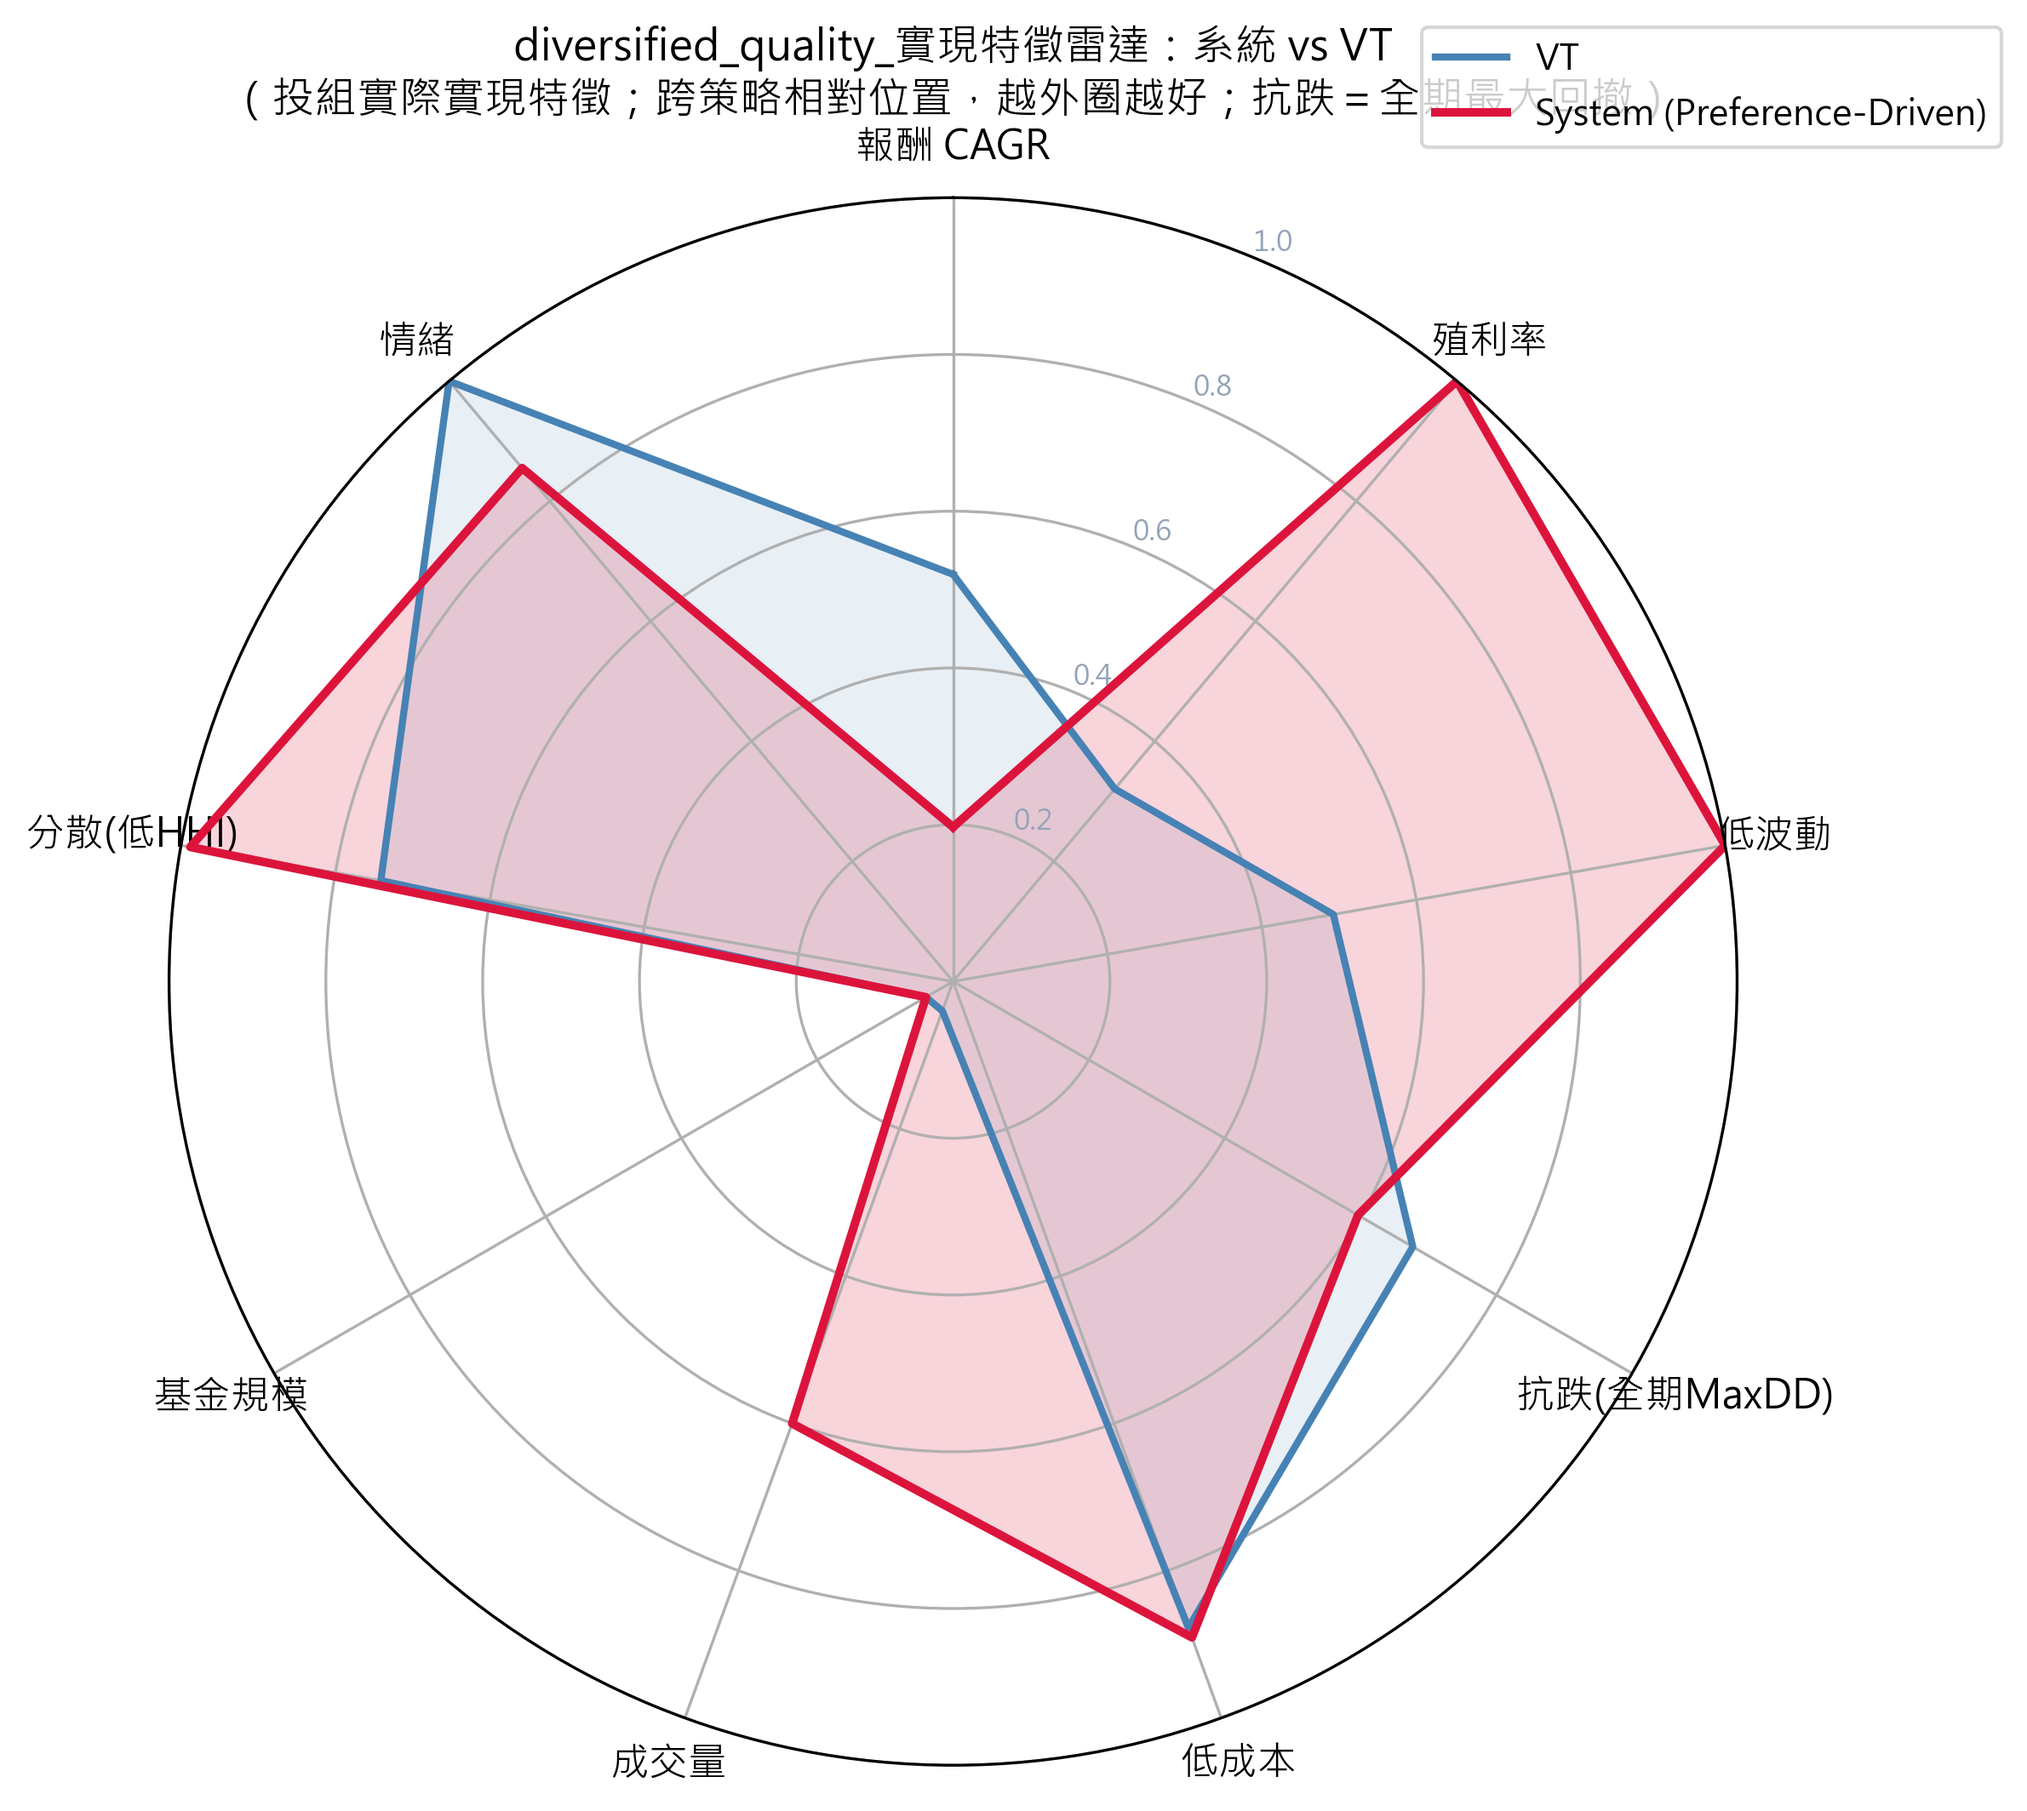
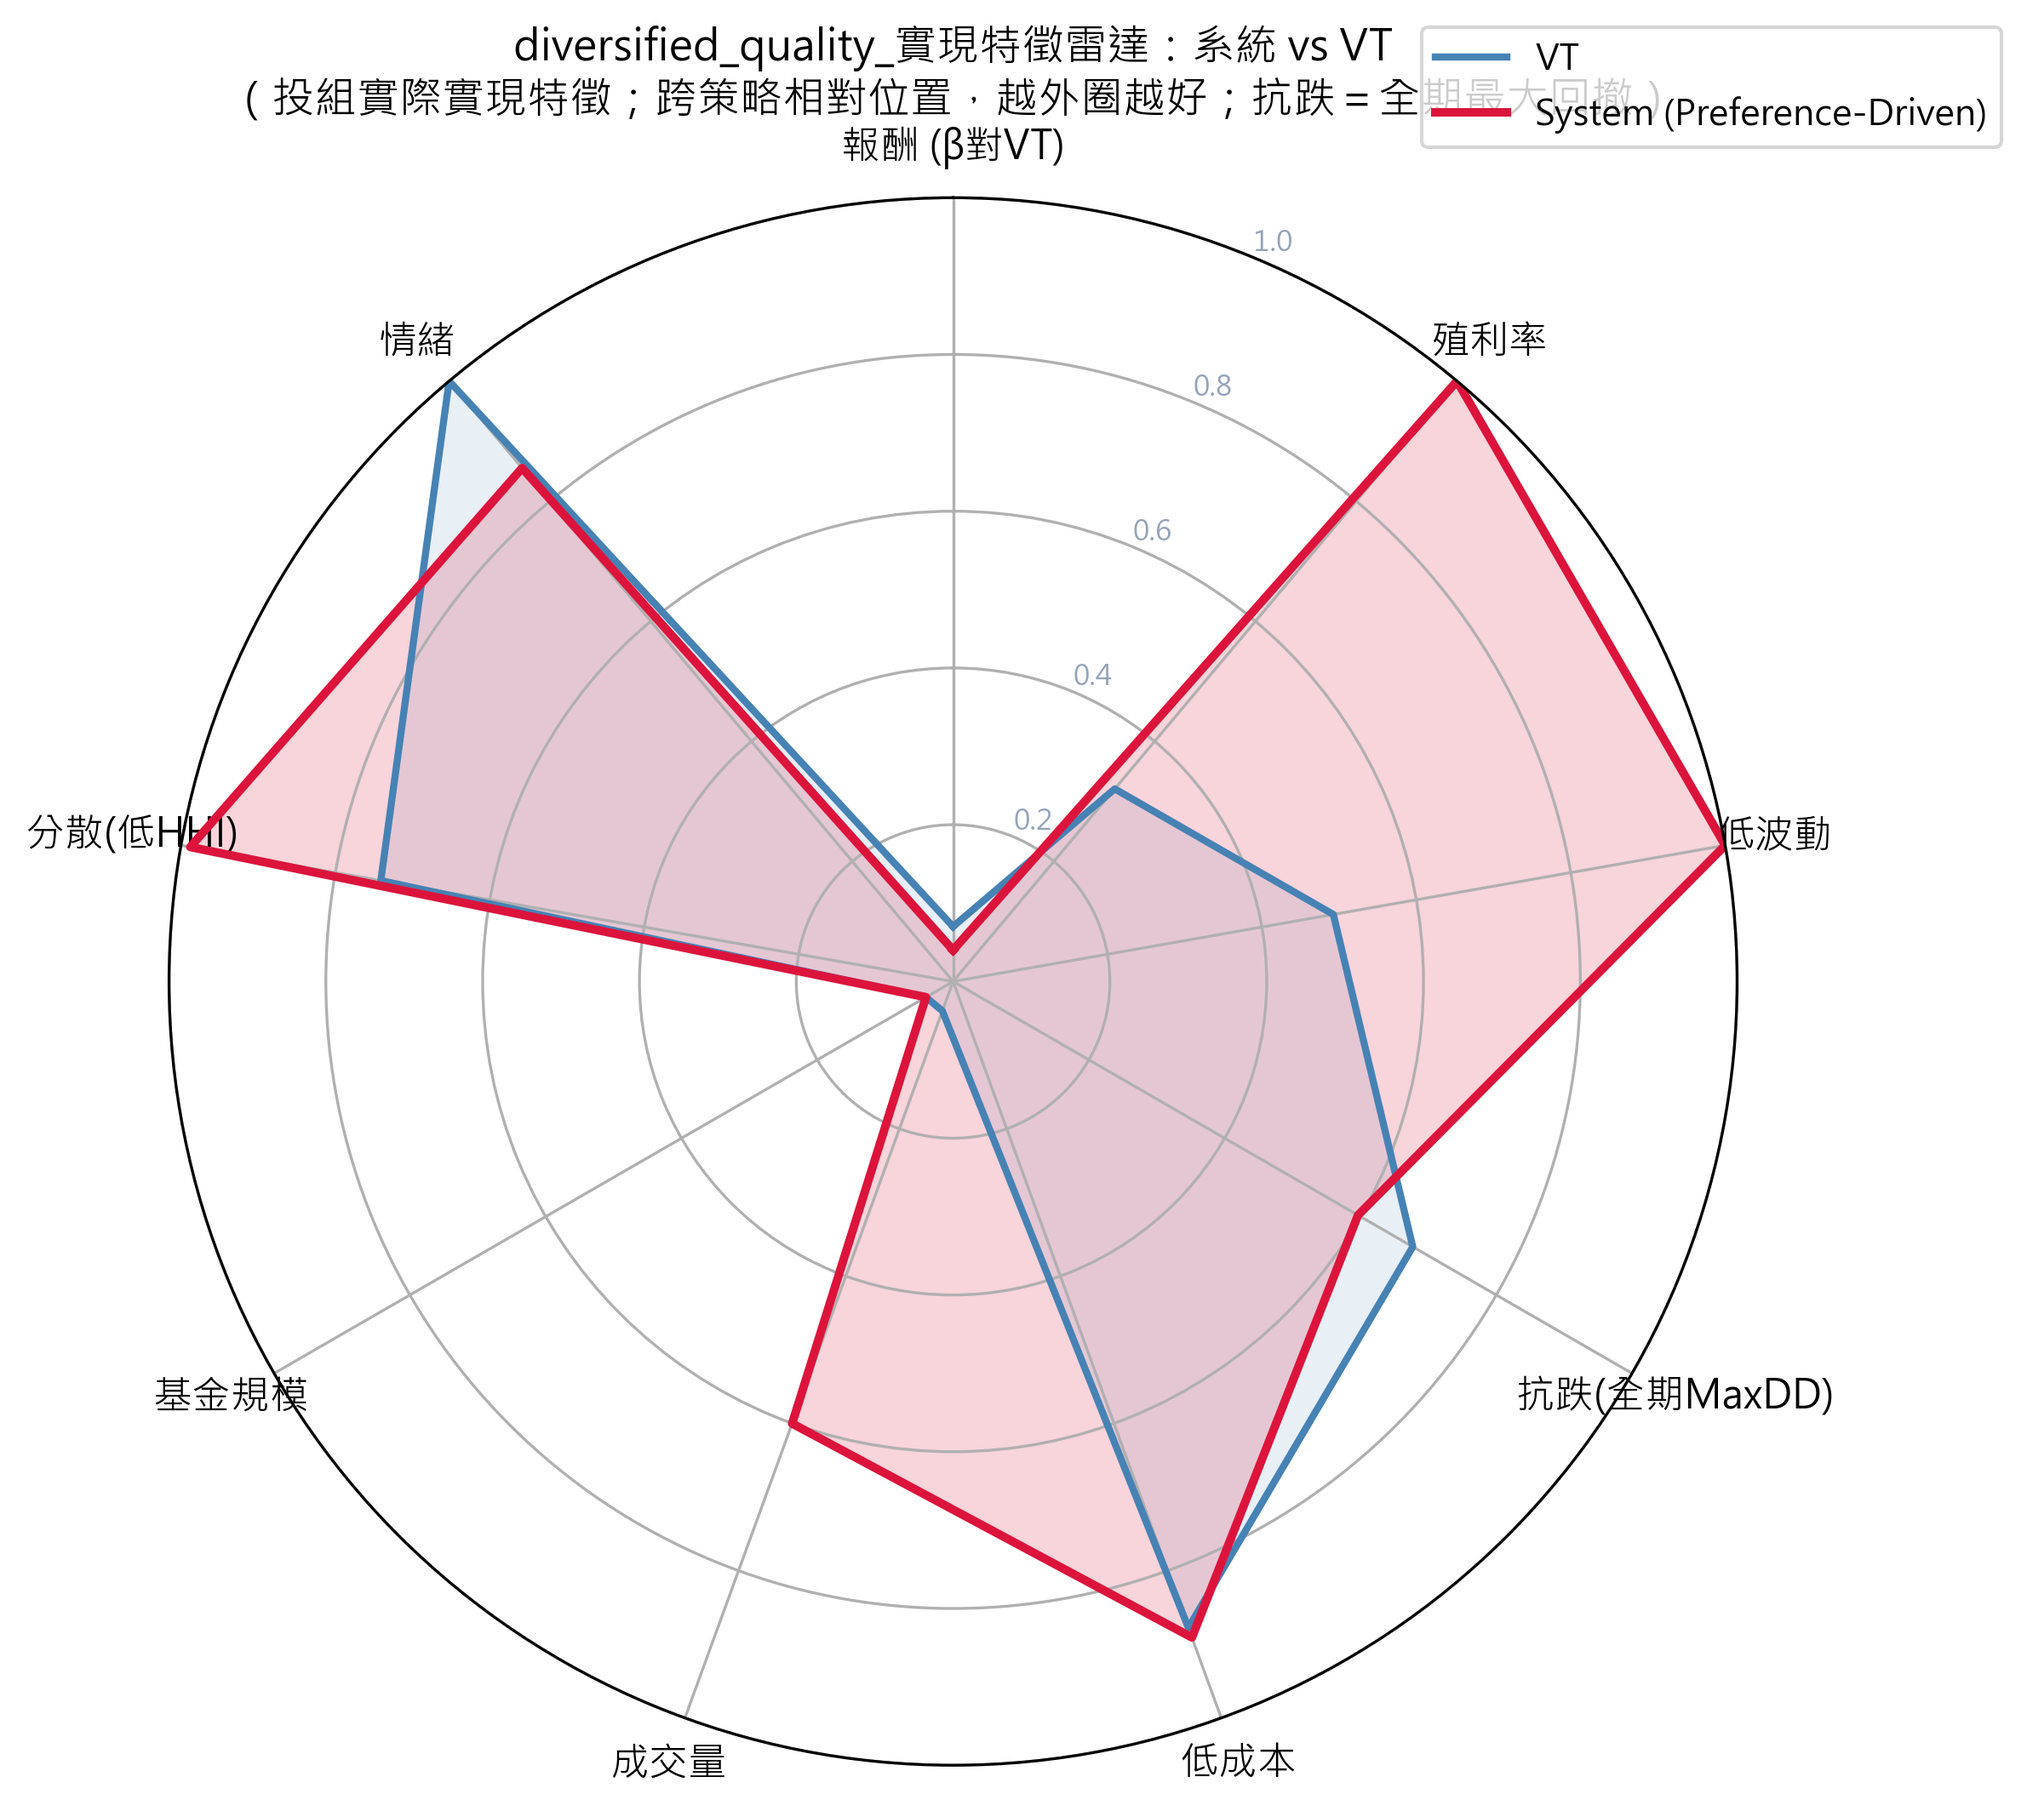
Radar return axis -> beta; disable early-stop (always ask all 9 questions)
- Backtest realized radar's return axis now uses Avg_Score_Return_CAGR (the
  beta-vs-VT return sub-score), consistent with the system's beta-based return
  scoring; label '報酬 (β對VT)'. Regenerated 7 showcase radars.
- etf_web: removed the pre-9 T1 early-stop offer in _compute_next and the
  '結束問答' button in the question card, so the interview always covers all 9
  dimensions (avoids unanswered dims sitting at prior / untrustworthy CI). The
  post-9 T2 reask offer is kept.

diff --git a/etf_web/static/app.js b/etf_web/static/app.js
@@ -86,10 +86,9 @@ function renderAction(action) {
       <textarea id="ans" placeholder="請用自然語句具體回答…"></textarea>
       <div class="row">
         <button class="btn" id="send">送出</button>
-        <button class="btn-ghost" id="stop">結束問答</button>
+        <span class="hint" style="margin:0">為求結果完整可信，將完整詢問 9 個面向。</span>
       </div>`;
     $("send").onclick = submitAnswer;
-    $("stop").onclick = () => choose(lastSnap && lastSnap.phase==="reask" ? "T2":"T1", "stop");
     $("ans").focus();
     $("ans").addEventListener("keydown", e => { if (e.key==="Enter" && (e.metaKey||e.ctrlKey)) submitAnswer(); });
   } else if (action.type === "offer") {

diff --git a/etf_web/app.py b/etf_web/app.py
@@ -107,12 +107,8 @@ def _finish(snap, reason):
 def _compute_next():
     e = _S["engine"]
     snap = e.snapshot()
-    if e.phase == "coverage" and e.should_stop() and not _S["continue_full"]:
-        return {"type": "offer", "kind": "T1", "snapshot": snap,
-                "title": "已找到您最重視的面向",
-                "message": f"系統已能排出您最重視的面向（已問 {snap['n_asked']} 題）。"
-                           f"可以就此結束；或繼續問完整 9 個面向以取得完整、可信賴的結果。",
-                "continue_label": "繼續問完整 9 面向", "stop_label": "結束（看排序）"}
+    # ★早停已停用★：使用者要求「答完 9 題前不可結束」（未答完會壓低未問維度、CI 不可信），
+    # 故略過覆蓋階段的 T1 早停提議，引擎一律問到 9 維全覆蓋為止。
     if e.all_covered() and e.t3_pending() and not _S["continue_reask"]:
         names = "、".join(SHORT.get(x, x) for x in snap["pending_conflicts"])
         return {"type": "offer", "kind": "T2", "snapshot": snap,

diff --git a/backtest_engine.py b/backtest_engine.py
@@ -2147,7 +2147,7 @@ def _plot_backtest_preference_radar(
         return
     # (顯示標籤, 欄位, 方向 +1=越大越好/-1=越小越好)
     specs_all = [
-        ("報酬 CAGR", "CAGR_%", +1),
+        ("報酬 (β對VT)", "Avg_Score_Return_CAGR", +1),   # 與偏好評分一致：報酬維度用 beta（系統性風險曝險），非過去 CAGR
         ("殖利率", "Avg_Raw_Dividend_Yield_%", +1),
         ("低波動", "Annualized_Volatility_%", -1),
         ("抗跌(全期MaxDD)", "Max_Drawdown_%", +1),       # 負值，越接近 0（越大）越好

diff --git a/system_upgrade_records/02_algorithm_upgrade_change_log.md b/system_upgrade_records/02_algorithm_upgrade_change_log.md
@@ -1110,6 +1110,12 @@ VT 參考 CAGR 13.51%。問題：傾斜目標 s 含資本利得排名(Norm_Retur
 - **Q1：低成本勝率時而高、本次卻 0%** —— 根因是 g(w) 的**傾斜強度 τ = 0.30·(1−T_growth)·R**，其中 **R = 報酬兩維權重(CAGR+股息)**。本次使用者把報酬權重幾乎設 0 → R=0.015 → **τ=0.004（傾斜≈關閉）** → 系統幾乎只做純 minvar（挑低波動 ETF：USMV/HDV/XLP…），**沒有往「低成本」傾斜** → 費用率輸 VT。對照 `cost_liquidity` 原型 R=0.28 → τ=0.044（10×）→ 強力往成本/流動性傾斜 → 贏。**＝設計特性（非 bug）**：報酬無感的使用者，其「成本/分散/流動性」偏好幾乎不被傾斜表達。若要改善需動 g(w)（讓 τ 也吃非報酬偏好質量），屬最佳化器改動、需另行 A/B + 批准，本次**未動**、僅記錄。
 - **Q2：MaxDD 變了、VT 也變** —— VT MaxDD 非固定常數，是「**本次回測視窗**」內量的。兩次再平衡頻率不同（income 季度起點 2019-07-01；本次年度起點 2019-12-31）→ 視窗/再平衡格點不同 → VT 回撤 −33.72% vs −34.00%、系統投組與視窗亦不同。各自正確。
 
+## 2026-06-06：回測雷達報酬軸改 beta + 網頁停用「早停」（答完 9 題前不可結束）
+
+- **#1 雷達報酬軸用 beta**：`_plot_backtest_preference_radar` 的「報酬」軸由 `CAGR_%` 改為 `Avg_Score_Return_CAGR`（即偏好評分用的 beta 對 VT 報酬子分數），與系統「報酬維度＝系統性風險曝險(β)」一致。標籤改「報酬 (β對VT)」。7 張 showcase 重生。
+- **#2 停用早停**：使用者反映未答完 9 題會壓低未問維度（CI 不可信）。`etf_web/app.py._compute_next` 移除覆蓋階段的 T1 早停提議；`app.js` 移除問題卡的「結束問答」鈕、改提示「將完整詢問 9 個面向」。引擎一律問到 9 維全覆蓋；T2（9 題後的最後重問確認）保留（屬答完 9 題後，非早停）。
+- **#3 τ 公式為何含報酬係數 R（回答使用者，未改碼）**：見下方說明；R 把「願意偏離風險核心的程度」綁在報酬胃納上，對「重成本/分散但不在意報酬」的使用者會使 τ≈0，屬已知設計取捨，若要改需 A/B+批准。
+
 ## 6. 改動紀錄模板
 
 ## 7. 下一個聊天室交接注意事項
